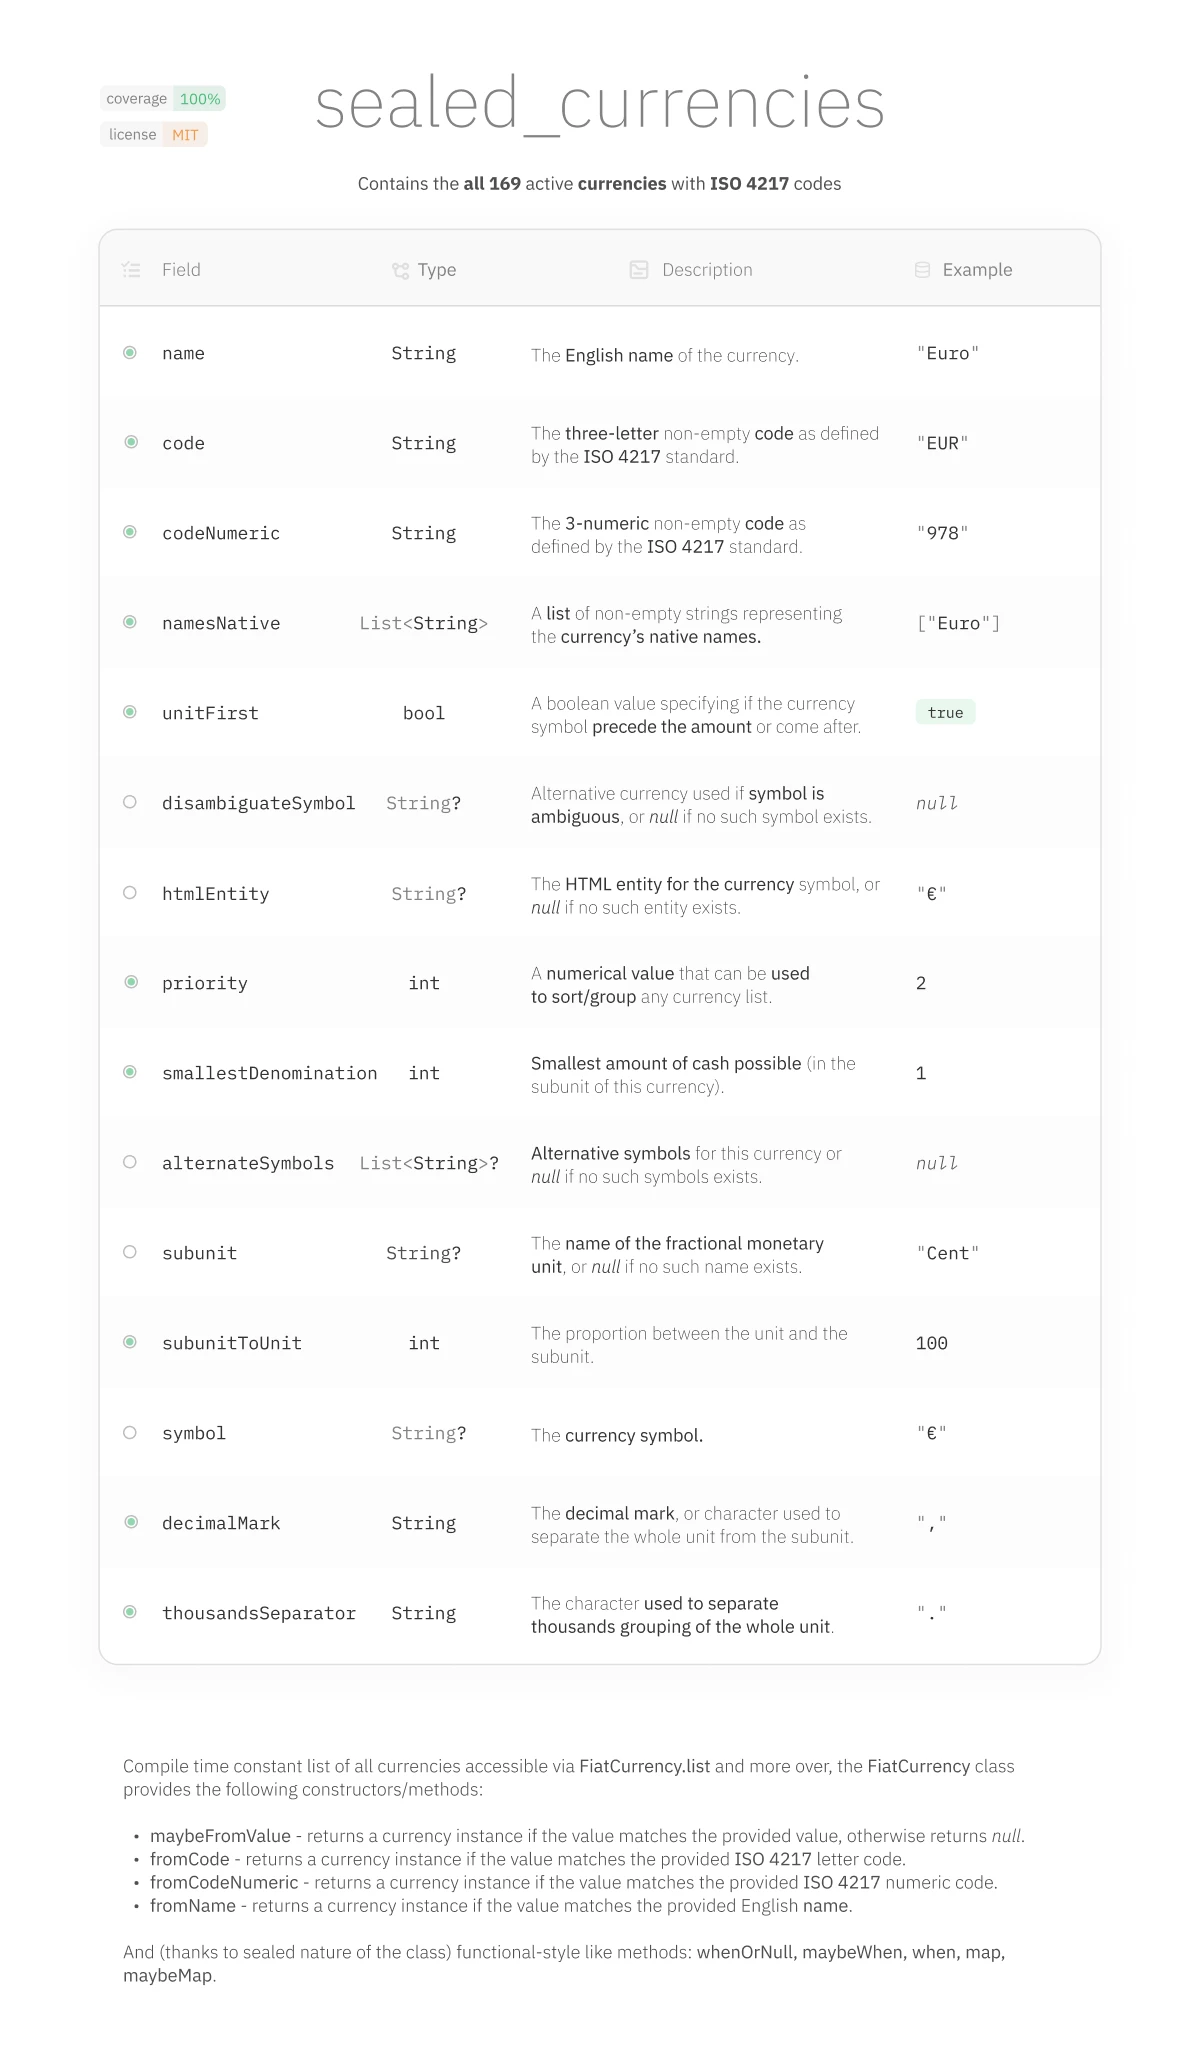
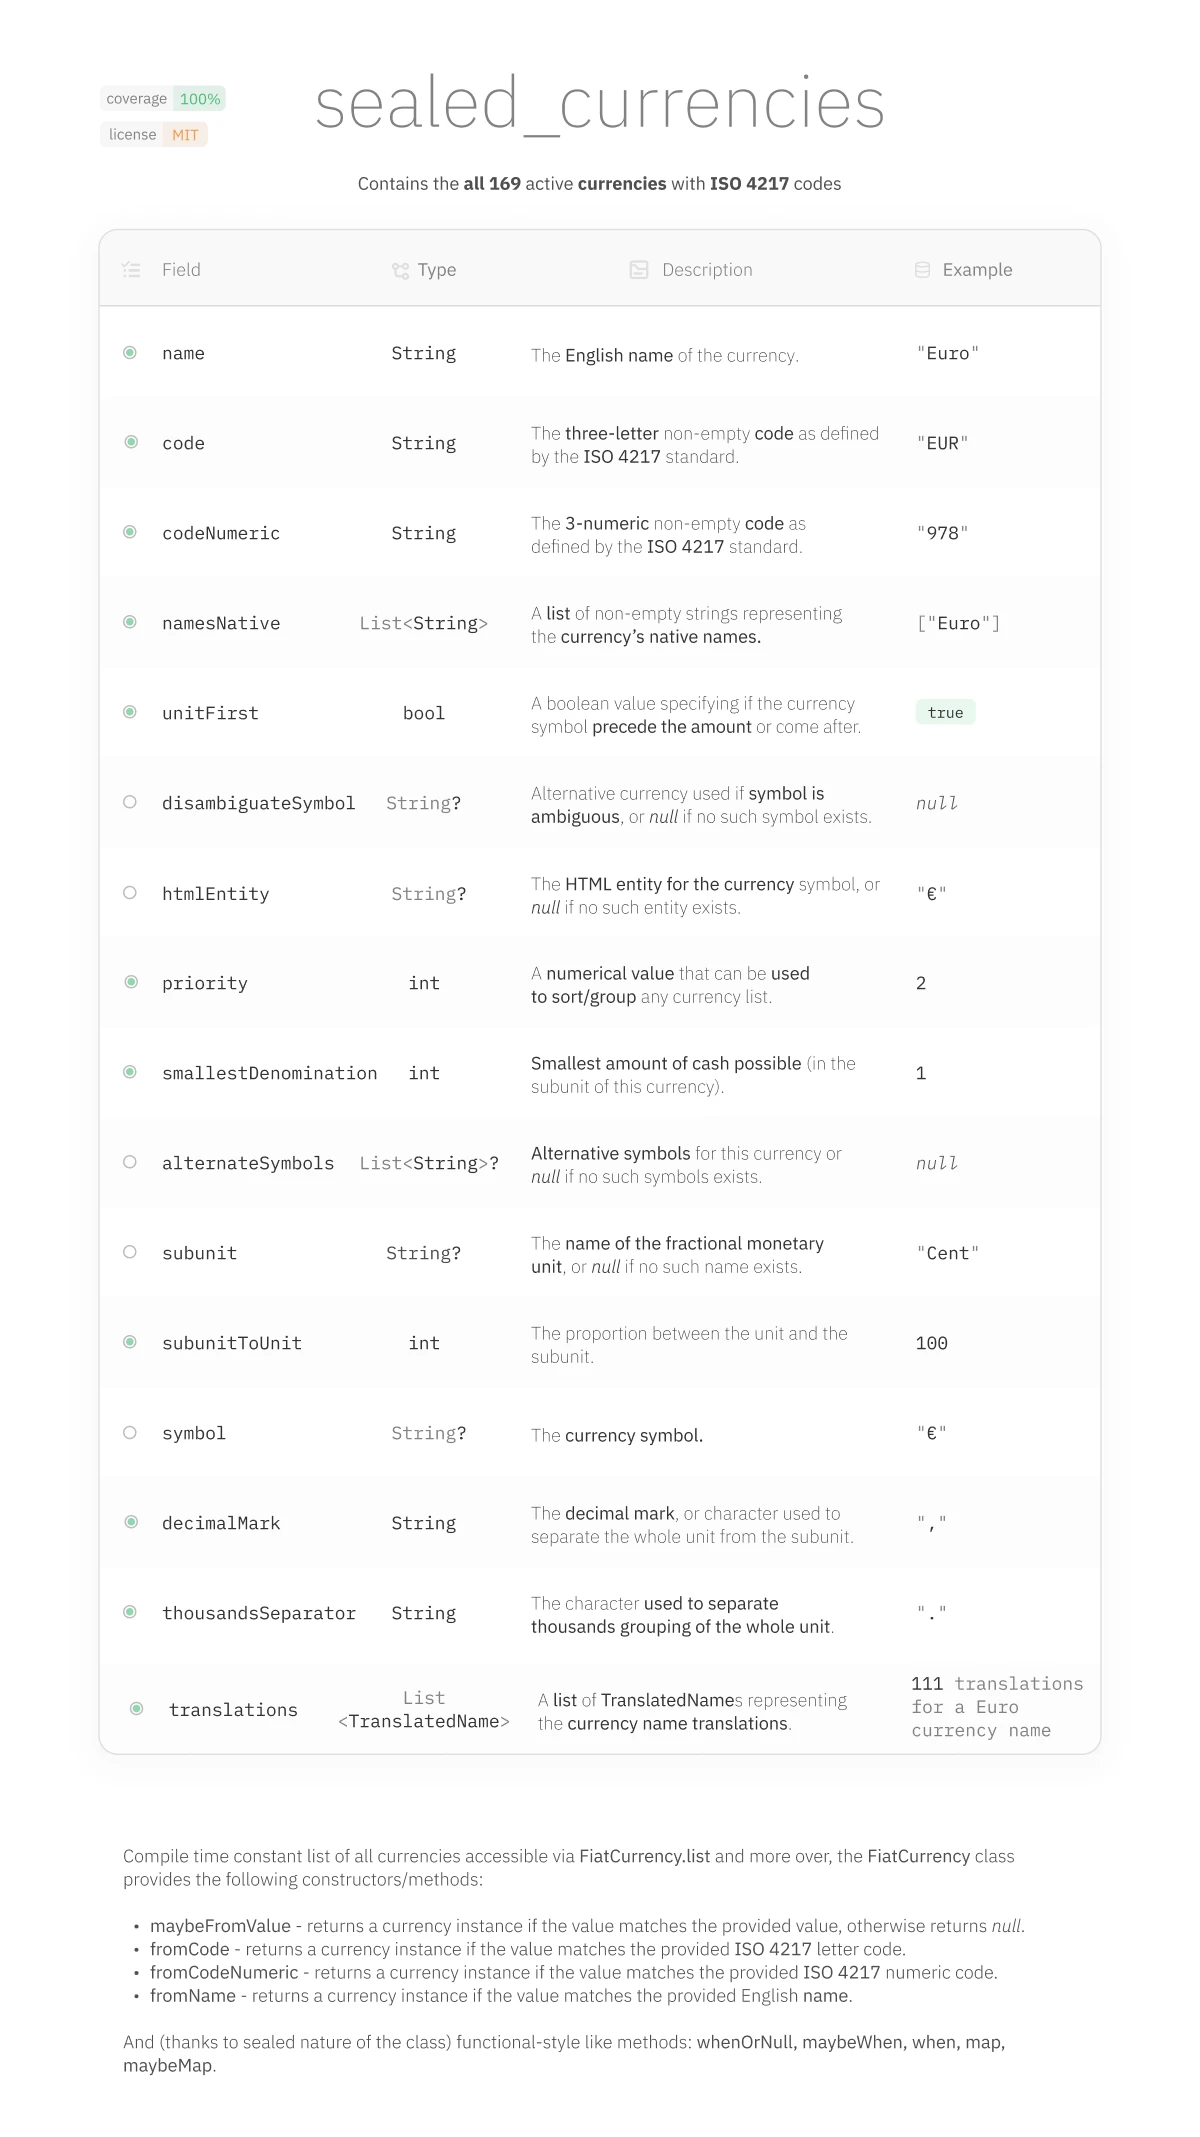
docs: added changelog and readme documentation

diff --git a/packages/sealed_currencies/example/lib/main.dart b/packages/sealed_currencies/example/lib/main.dart
@@ -48,7 +48,7 @@ void main() {
   print(isVikingKrone(serbianDinar)); // Prints "null".
   print(isVikingKrone(const FiatCzk())); // Prints "false".
 
-  FiatCurrency.list
+  FiatCurrency.regularList
       .where((currency) => currency.symbol?.contains("kr") ?? false)
       .forEach(print);
   // Prints:

diff --git a/packages/sealed_currencies/README.md b/packages/sealed_currencies/README.md
@@ -27,6 +27,7 @@ This ISO-driven, pure Dart, fully tested and and 3rd-party dependency-free packa
 | symbol | No | The currency symbol. | "€"
 | decimalMark | Yes | The decimal mark, or character used to separate the whole unit from the subunit. | ","
 | thousandsSeparator | Yes | The character used to separate thousands grouping of the whole unit. | "."
+| translations | Yes | A list of TranslatedNames representing the currency name translations. | 111 translations for a Euro currency name
 
 Compile time constant list of all currencies accessible via `FiatCurrency.list` and more over, the **FiatCurrency** class provides the following methods:
 
@@ -58,6 +59,7 @@ Use `FiatCurrency` class to get information about currencies. Either construct a
 
 ```dart
   print(FiatCurrency.list.length); // Prints: "169".
+  print(FiatCurrency.regularList.length); // Prints: "159".
 
   final serbianDinar = FiatCurrency.fromCode("Rsd");
   print(serbianDinar); // Prints: "Serbian Dinar".
@@ -72,7 +74,7 @@ Use `FiatCurrency` class to get information about currencies. Either construct a
   thousandsSeparator: ".", symbol: "€", alternateSymbols: null,
   disambiguateSymbol: null, htmlEntity: "€", codeNumeric: "978", namesNative:
   ["Euro"], priority: 2, smallestDenomination: 1, subunit: "Cent",
-  subunitToUnit: 100, unitFirst: true)".
+  subunitToUnit: 100, unitFirst: true, translations rsdCurrencyTranslations)".
   */
 ```
 

diff --git a/packages/sealed_languages/README.md b/packages/sealed_languages/README.md
@@ -19,6 +19,7 @@ This ISO-driven, pure Dart, fully tested and and dependency-free package provide
 | bibliographicCode | No | A three-letter string representing the ISO 639-2/B Bibliographic code for the language. | null |
 | family | No | The language family to which the language belongs. | LanguageFamily(name: "Indo-European") |
 | isRightToLeft | No | A boolean value specifying whether the language is written right-to-left. | false |
+| translations | Yes | A list of TranslatedNames representing the language name translations. | 121 translations for a English language name
 
 Compile time constant list of all languages accessible via `NaturalLanguage.list` and more over, the **NaturalLanguage** class provides the following methods:
 

diff --git a/packages/sealed_currencies/CHANGELOG.md b/packages/sealed_currencies/CHANGELOG.md
@@ -1,3 +1,15 @@
+## 0.7.0
+
+NEW FEATURES
+
+- Added regularList getter for list of regular currencies (excludes 10 currencies from specialPurposeList).
+- FiatCurrency class now contains translations of language name to other languages.
+- Those translations are also accessible via translation and maybeTranslation methods.
+- Refactored factory constructors - there is an optional parameter to provide custom list.
+- Added TranslatedName class for translations.
+- Implement new abstract interfaces for currencies: Named and Translated.
+- Fixed several English currency names.
+
 ## 0.6.0
 
 - feat(model): added copy with, to-json etc.
